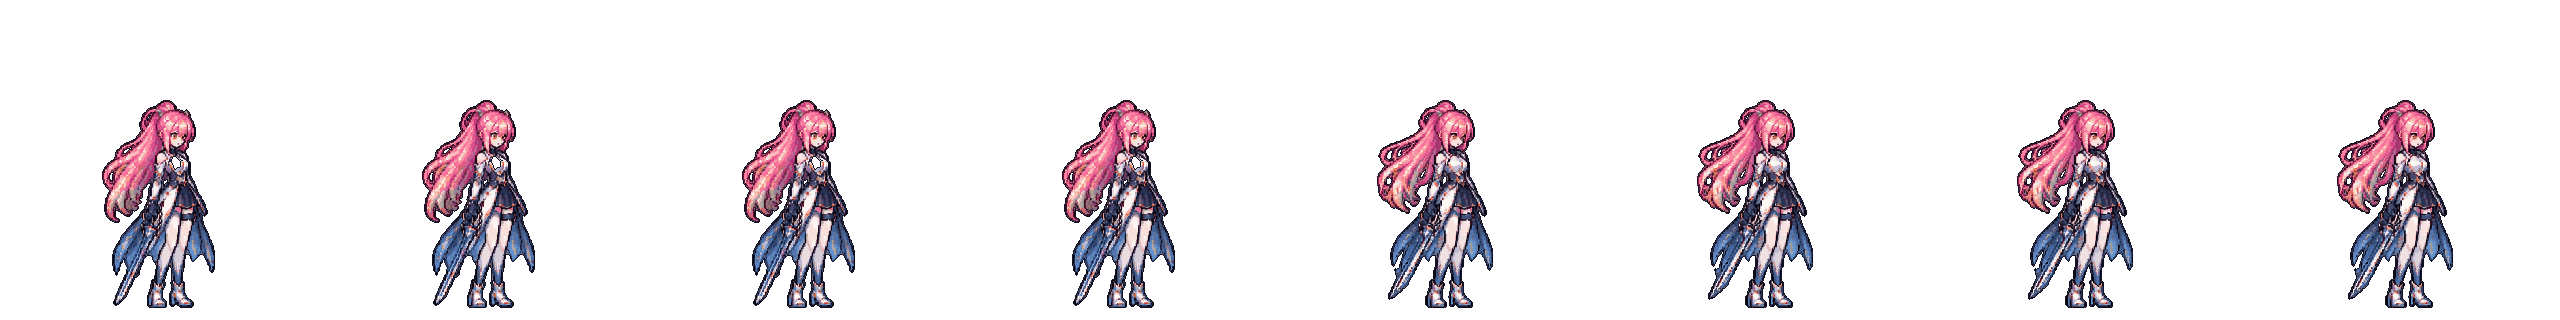
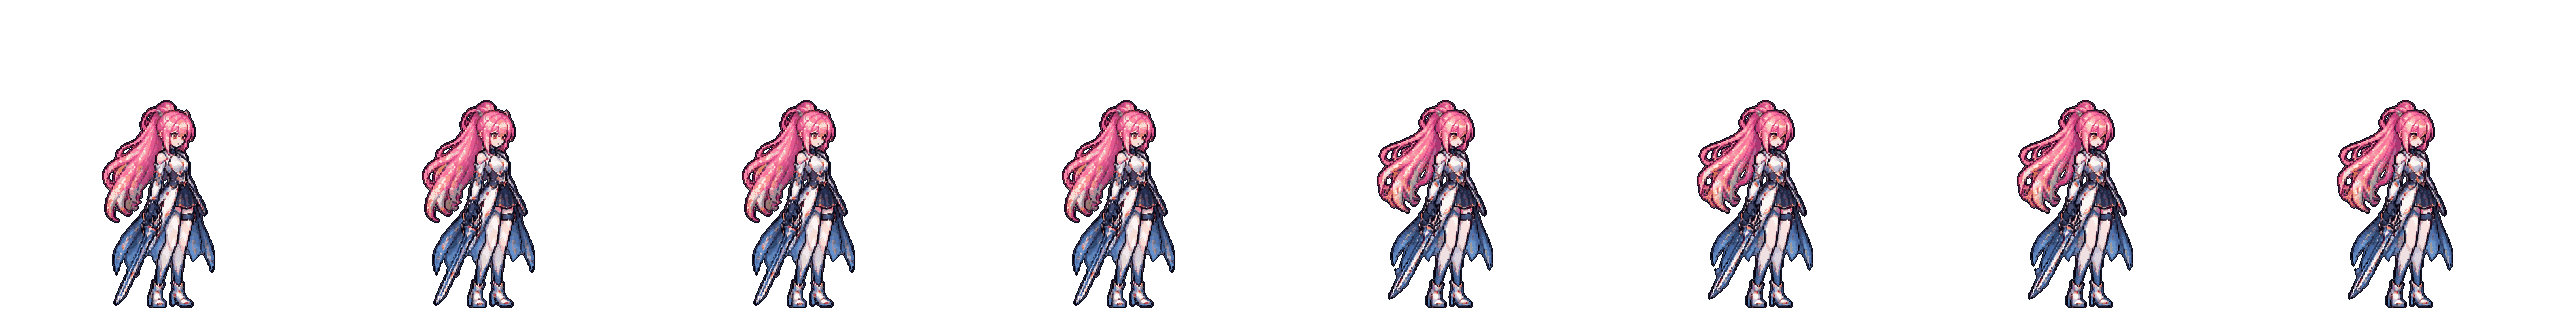
fix(art): 에이메스 가슴 색 깜빡임 — unchecker가 음영 있는 흰 옷을 체크무늬로 지우던 문제
- 갇힌 체크무늬 단계: 바깥 배경에서 찾은 체크무늬 두 색(±6)으로만 된 덩어리만 지움
- hero_aem_full.png 구멍 5곳(가슴·다리 옷·검·날개, 1,584px)을 597550e 픽셀로 복원 후 재처리
- 점검 scripts/unchecker.test.cjs 추가

diff --git a/docs/STATUS.md b/docs/STATUS.md
@@ -68,3 +68,4 @@ PixelLab 프롬프트를 웹 화면 스크린샷에 맞춰 수정: Create from T
 2026-11-24: 타이틀 배경 영상을 하루 주기 영상으로 교체. 박힌 로고 글자 「鳴潮」를 지우고 낮·노을·밤·새벽 4개 반복 영상으로 나눠, 지금 시각에 맞는 것을 튼다(`scripts/title-dayparts.cjs`, `render.js` `titlePart`, 자가 점검 `title_video`). 예전 영상·`title-video.swift`는 지움. 원본은 공식 로고가 있어 커밋하지 않는다.
 2026-11-24: 타이틀 영상 수정(사용자 요청): 로고 글자는 지우지 않고 둔다. 시간대별 짧은 왕복 영상 4개 대신, 하루 주기 전체를 640×360 도트로 다시 그리고(블록 최빈색, 1280×720에 2배 저장) 끝→처음을 1초 겹쳐 끊김 없이 반복하는 `assets/maps/title-cycle.mp4`(7초) 하나로. 지금 시간대 지점부터 재생(`TITLE_T`). 화면은 배경 그림과 같은 정수 배율 최근접 확대.
 2026-11-24: 파수인 배경 잔여 정리. 원본 몸 가장자리의 53.7%가 밝은 회색이었고, 공격 칸 나비 이펙트 둘레에 체크무늬 조각이 갇혀 있었다(바깥 번짐이 안 닿음). `unchecker.cjs strict box:1020,90,1230,330`로 가장자리 53.7%→0.9%, 배경 잡티와 나비 둘레 체크무늬 제거(흰 드레스·나비 몸통은 윤곽선으로 닫혀 남음). `box:` 옵션 추가.
+2026-11-24: 에이메스 가슴 색이 대기 동작 중 바뀌던 문제 수정. 원인: `unchecker.cjs`의 '갇힌 체크무늬' 단계가 밝은 칸·회색 칸이 섞인 덩어리를 체크무늬로 보고 지웠는데, 음영 있는 흰 옷도 이 조건에 걸려 원본 시트(`hero_aem_full.png`)의 0번 칸 가슴, 2·6번 칸 다리 옷, 15번 칸 검·날개 흰 면에 구멍이 났다(02b9d26). 처리 과정이 구멍 둘레에 어두운 윤곽선을 그려 대기 첫 프레임만 가슴이 검게 보였다. 구멍 5곳(1,584px)을 앞 버전(597550e) 픽셀로 메우고 에이메스 재처리(카드 제외, 프레임 테두리 닿음 0). `unchecker.cjs`는 이제 바깥 배경에서 찾은 체크무늬 두 색(±6)으로만 된 덩어리만 지운다(칵찰찰 업로드는 결과가 픽셀 단위로 같음). 점검 `node scripts/unchecker.test.cjs` 추가.
